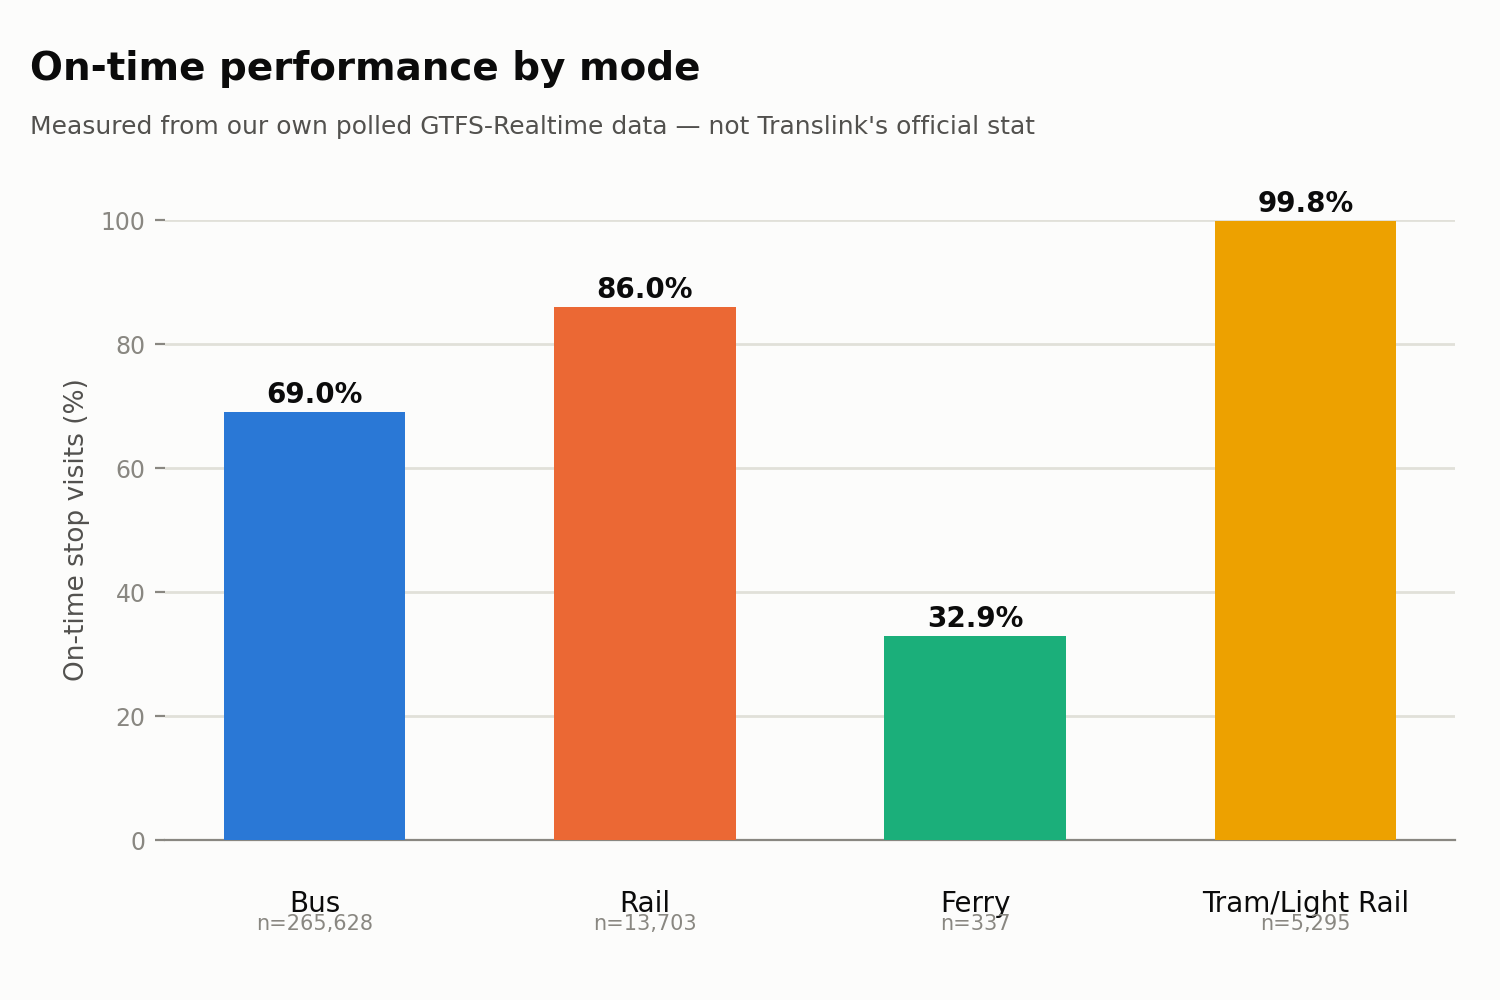
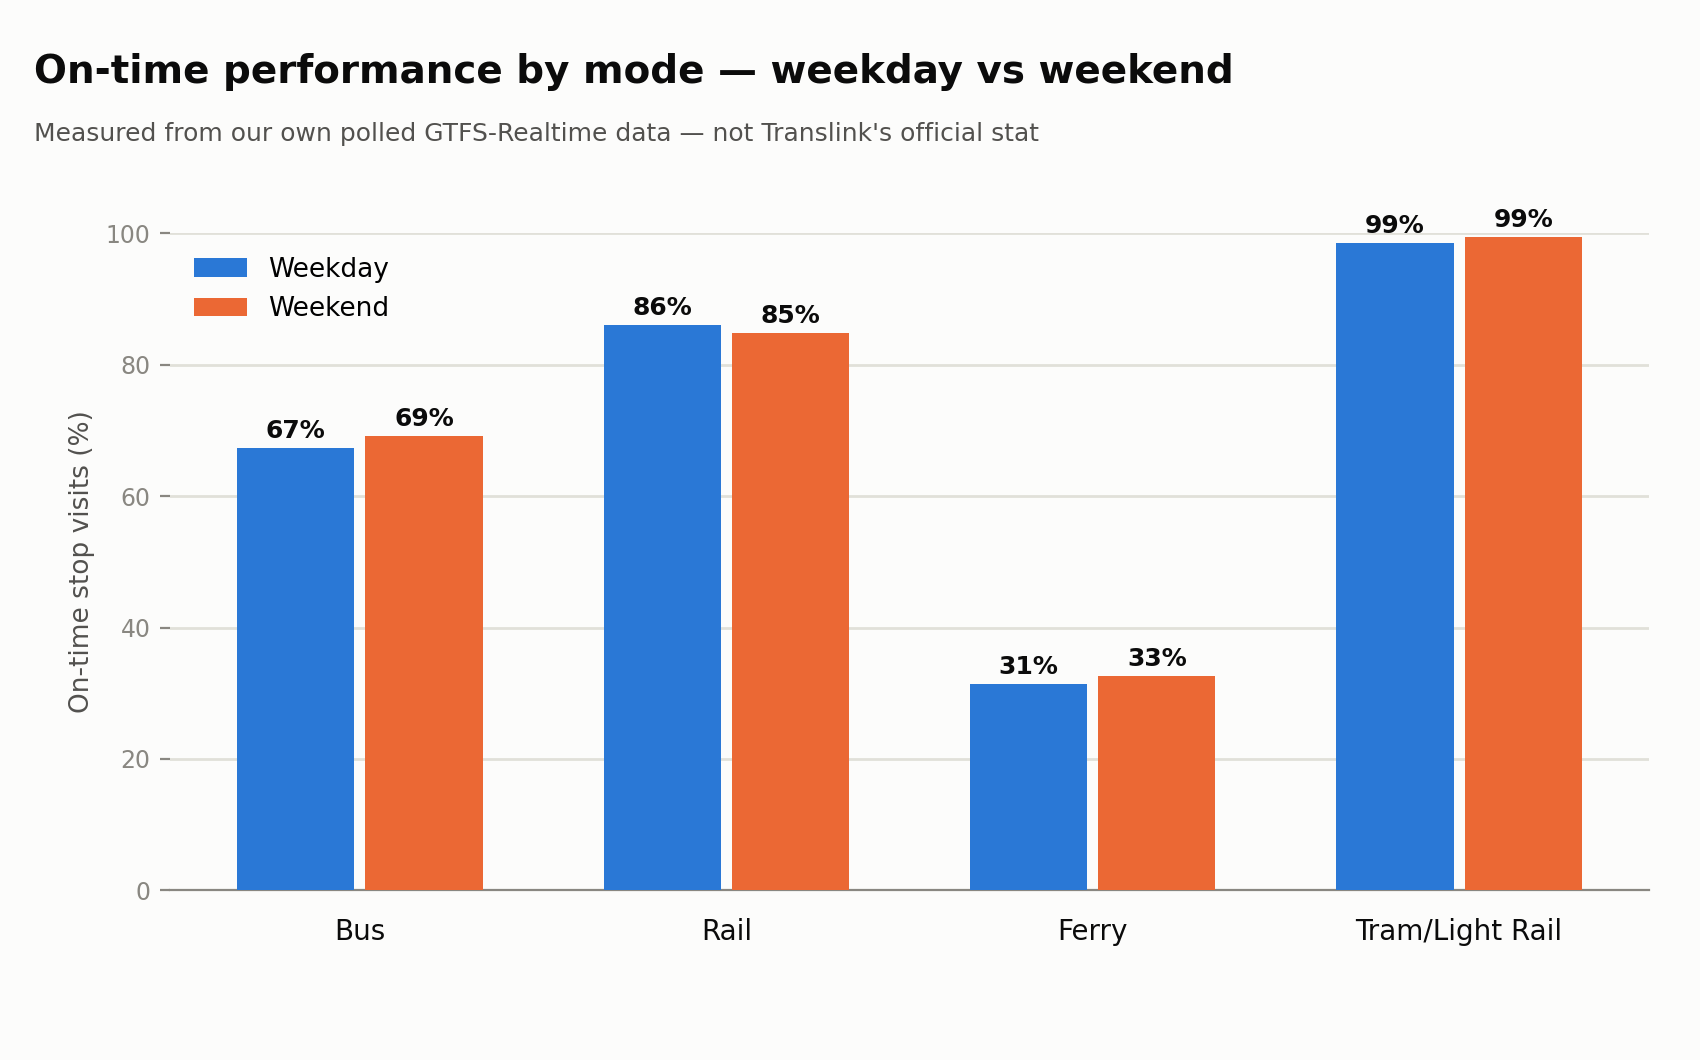
Split Week 2 on-time performance by weekday vs weekend
The collection window now spans real weekday service (Mon/Tue,
including this morning's AM peak) alongside the original weekend
data — enough to fix a gap flagged earlier: the citywide numbers
were a blended figure that quietly hid the fact the first version
was built entirely from weekend data.

- Day type is derived from each stop visit's scheduled service date
  (local Brisbane time), not from when we happened to poll it.
- New "Weekday vs weekend" section: 68.6% weekday vs 70.5% weekend
  on-time, but with opposite failure modes — weekday skews early
  (19.4% vs 13.2%), weekend skews late (16.3% vs 12.0%).
- Chart replaced with a grouped weekday/weekend bar per mode.
- Route-level rankings and bunching stay blended (splitting further
  would thin most routes below the reliability threshold) — noted
  explicitly in the caveats.
- Now built from ~65h / 586K stop visits, up from the original ~26h
  weekend-only window.

diff --git a/notebooks/realtime_summary.py b/notebooks/realtime_summary.py
@@ -27,6 +27,7 @@ DBT_DIR = REPO_ROOT / "dbt"
 sys.path.insert(0, str(REPO_ROOT))
 
 import matplotlib.pyplot as plt
+import numpy as np
 import pandas as pd
 from sqlalchemy import create_engine
 
@@ -44,6 +45,8 @@ MIN_TRIPS = 5  # minimum distinct trips, so one bad/good run can't dominate a ro
 MODE_ORDER = ["Bus", "Rail", "Ferry", "Tram/Light Rail"]
 # dataviz skill's validated categorical palette, fixed order (slots 1-4).
 MODE_COLORS = {"Bus": "#2a78d6", "Rail": "#eb6834", "Ferry": "#1baf7a", "Tram/Light Rail": "#eda100"}
+# Same palette, slots 1-2, reused for the weekday/weekend split.
+DAYTYPE_COLORS = {"Weekday": "#2a78d6", "Weekend": "#eb6834"}
 
 INK_PRIMARY = "#0b0b0b"
 INK_SECONDARY = "#52514e"
@@ -66,13 +69,25 @@ def refresh_dbt_marts() -> None:
         raise RuntimeError("dbt run failed — see output above")
 
 
+STOP_DELAY_SQL = """
+    SELECT
+        sd.arrival_delay_sec,
+        r.mode,
+        -- Saturday/Sunday by the SCHEDULED service date (local time), not by
+        -- when we happened to poll it — a stop visit polled late at night
+        -- can belong to the next day's early service.
+        (extract(dow from sd.scheduled_arrival at time zone 'Australia/Brisbane') in (0, 6)) AS is_weekend
+    FROM marts.mart_stop_delay sd
+    JOIN staging.stg_routes r ON r.route_id = sd.route_id
+    WHERE sd.arrival_delay_sec IS NOT NULL AND sd.scheduled_arrival IS NOT NULL
+"""
+
+
 def fetch_marts(engine) -> dict[str, pd.DataFrame]:
     return {
         "otp": pd.read_sql("SELECT * FROM marts.mart_on_time_performance", engine),
         "bunching": pd.read_sql("SELECT * FROM marts.mart_bunching_by_route", engine),
-        "stop_delay": pd.read_sql(
-            "SELECT arrival_delay_sec FROM marts.mart_stop_delay WHERE arrival_delay_sec IS NOT NULL", engine
-        ),
+        "stop_delay": pd.read_sql(STOP_DELAY_SQL, engine),
     }
 
 
@@ -98,52 +113,59 @@ def citywide_otp(stop_delay: pd.DataFrame) -> dict[str, float]:
     }
 
 
-def plot_otp_by_mode(otp: pd.DataFrame) -> None:
-    CHART_PATH.parent.mkdir(parents=True, exist_ok=True)
-    by_mode = (
-        otp.groupby("mode")
-        .apply(
-            lambda g: pd.Series(
-                {
-                    "on_time_pct": (g["on_time_pct"] * g["n_stop_visits"]).sum() / g["n_stop_visits"].sum(),
-                    "n_stop_visits": g["n_stop_visits"].sum(),
-                }
-            ),
-            include_groups=False,
-        )
-        .reindex([m for m in MODE_ORDER if m in otp["mode"].unique()])
-        .dropna()
-    )
+def otp_by_daytype(stop_delay: pd.DataFrame) -> dict[str, dict[str, float]]:
+    return {
+        "weekday": citywide_otp(stop_delay[~stop_delay["is_weekend"]]),
+        "weekend": citywide_otp(stop_delay[stop_delay["is_weekend"]]),
+    }
 
-    fig, ax = plt.subplots(figsize=(7.5, 5), dpi=200)
+
+def plot_otp_by_mode_daytype(stop_delay: pd.DataFrame) -> None:
+    CHART_PATH.parent.mkdir(parents=True, exist_ok=True)
+    df = stop_delay.copy()
+    df["day_type"] = df["is_weekend"].map({False: "Weekday", True: "Weekend"})
+
+    def summarize(g):
+        d = g["arrival_delay_sec"]
+        return pd.Series({"on_time_pct": 100 * ((d >= -60) & (d <= 300)).sum() / len(d)})
+
+    pivot = (
+        df.groupby(["mode", "day_type"])
+        .apply(summarize, include_groups=False)
+        .reset_index()
+        .pivot(index="mode", columns="day_type", values="on_time_pct")
+    )
+    modes = [m for m in MODE_ORDER if m in pivot.index]
+    pivot = pivot.reindex(modes)
+    day_types = [d for d in ["Weekday", "Weekend"] if d in pivot.columns]
+
+    x = np.arange(len(modes))
+    bar_w = 0.32
+    offsets = (np.arange(len(day_types)) - (len(day_types) - 1) / 2) * (bar_w + 0.03)
+
+    fig, ax = plt.subplots(figsize=(8.5, 5.3), dpi=200)
     fig.patch.set_facecolor("#fcfcfb")
     ax.set_facecolor("#fcfcfb")
-    fig.subplots_adjust(top=0.78, bottom=0.16, left=0.11, right=0.97)
+    fig.subplots_adjust(top=0.78, bottom=0.16, left=0.1, right=0.97)
 
-    colors = [MODE_COLORS[m] for m in by_mode.index]
-    bars = ax.bar(by_mode.index, by_mode["on_time_pct"], color=colors, width=0.55, zorder=3)
-    xaxis_transform = ax.get_xaxis_transform()  # x in data units, y in axes fraction
-    for rect, (_, row) in zip(bars, by_mode.iterrows()):
-        ax.text(
-            rect.get_x() + rect.get_width() / 2,
-            row["on_time_pct"] + 1.5,
-            f"{row['on_time_pct']:.1f}%",
-            ha="center",
-            fontsize=10,
-            fontweight="bold",
-            color=INK_PRIMARY,
-        )
-        ax.text(
-            rect.get_x() + rect.get_width() / 2,
-            -0.12,
-            f"n={int(row['n_stop_visits']):,}",
-            transform=xaxis_transform,
-            ha="center",
-            va="top",
-            fontsize=7.5,
-            color=INK_MUTED,
-        )
+    for day_type, off in zip(day_types, offsets):
+        vals = pivot[day_type]
+        bars = ax.bar(x + off, vals, width=bar_w, color=DAYTYPE_COLORS[day_type], label=day_type, zorder=3)
+        for rect, v in zip(bars, vals):
+            if pd.isna(v):
+                continue
+            ax.text(
+                rect.get_x() + rect.get_width() / 2,
+                v + 1.5,
+                f"{v:.0f}%",
+                ha="center",
+                fontsize=9,
+                fontweight="bold",
+                color=INK_PRIMARY,
+            )
 
+    ax.set_xticks(x)
+    ax.set_xticklabels(modes, fontsize=10, color=INK_PRIMARY)
     ax.set_ylim(0, 100)
     ax.set_ylabel("On-time stop visits (%)", fontsize=9.5, color=INK_SECONDARY)
     ax.grid(axis="y", color=GRIDLINE, linewidth=1, zorder=0)
@@ -152,10 +174,17 @@ def plot_otp_by_mode(otp: pd.DataFrame) -> None:
         ax.spines[spine].set_visible(False)
     ax.spines["bottom"].set_color(INK_MUTED)
     ax.tick_params(axis="y", colors=INK_MUTED, labelsize=8.5)
-    ax.tick_params(axis="x", length=0, labelsize=10, colors=INK_PRIMARY, pad=18)
+    ax.tick_params(axis="x", length=0, pad=10)
+    ax.legend(frameon=False, loc="upper left", fontsize=9.5)
 
     fig.text(
-        0.02, 0.95, "On-time performance by mode", fontsize=14, fontweight="bold", color=INK_PRIMARY, va="top"
+        0.02,
+        0.95,
+        "On-time performance by mode — weekday vs weekend",
+        fontsize=14,
+        fontweight="bold",
+        color=INK_PRIMARY,
+        va="top",
     )
     fig.text(
         0.02,
@@ -177,7 +206,11 @@ def _format_span(td) -> str:
 
 
 def write_report(
-    otp: pd.DataFrame, bunching: pd.DataFrame, city: dict[str, float], window: tuple[datetime, datetime, int]
+    otp: pd.DataFrame,
+    bunching: pd.DataFrame,
+    city: dict[str, float],
+    by_daytype: dict[str, dict[str, float]],
+    window: tuple[datetime, datetime, int],
 ) -> None:
     start, end, n_polls = window
     span_td = (end - start) if (start and end) else None
@@ -212,7 +245,27 @@ def write_report(
         f"- **{city['early_pct']}%** more than 1 minute early",
         f"- {city['n']:,} stop visits measured",
         "",
-        "![On-time performance by mode](images/week2_on_time_by_mode.png)",
+        "### Weekday vs weekend",
+        "",
+        (
+            "A blended figure across the whole collection window hides a real difference — "
+            "**weekday and weekend service run at different reliability**, and earlier versions of "
+            "this report were built from weekend-only data without saying so. Split here by the "
+            "scheduled service's actual calendar day, not by when we happened to be polling:"
+        ),
+        "",
+        "| | On time | Late | Early | Stop visits |",
+        "|---|---|---|---|---|",
+        (
+            f"| Weekday | {by_daytype['weekday']['on_time_pct']}% | {by_daytype['weekday']['late_pct']}% | "
+            f"{by_daytype['weekday']['early_pct']}% | {by_daytype['weekday']['n']:,} |"
+        ),
+        (
+            f"| Weekend | {by_daytype['weekend']['on_time_pct']}% | {by_daytype['weekend']['late_pct']}% | "
+            f"{by_daytype['weekend']['early_pct']}% | {by_daytype['weekend']['n']:,} |"
+        ),
+        "",
+        "![On-time performance by mode, weekday vs weekend](images/week2_on_time_by_mode.png)",
         "",
         (
             f"## Worst on-time performance (routes with ≥{MIN_SAMPLE_SIZE} stop visits "
@@ -287,6 +340,12 @@ def write_report(
             "(e.g. all-peak, or all-overnight) — check the collection window above before treating "
             "a route's number as representative of its typical performance."
         ),
+        (
+            "- The route-level Worst/Best tables and the bunching table below are **blended across "
+            "weekday and weekend** (splitting them further would thin out the per-route trip counts "
+            "below the reliability threshold for most routes). Only the citywide/mode figures above "
+            "are split by day type."
+        ),
         "",
     ]
 
@@ -305,10 +364,13 @@ def main() -> None:
     city = citywide_otp(marts["stop_delay"])
     print(f"Citywide on-time: {city}")
 
-    plot_otp_by_mode(marts["otp"])
+    by_daytype = otp_by_daytype(marts["stop_delay"])
+    print(f"By day type: {by_daytype}")
+
+    plot_otp_by_mode_daytype(marts["stop_delay"])
     print(f"Saved chart to {CHART_PATH}")
 
-    write_report(marts["otp"], marts["bunching"], city, window)
+    write_report(marts["otp"], marts["bunching"], city, by_daytype, window)
     print(f"Saved report to {REPORT_PATH}")
 
 

diff --git a/docs/week2_findings.md b/docs/week2_findings.md
@@ -1,77 +1,86 @@
 # Week 2 findings — on-time performance & bunching
 
-Collection window: **2026-09-19 05:07 – 2026-09-20 07:19 UTC** (26h 11m, 578 polls) — our own measurement from polled GTFS-Realtime data, not Translink's official on-time stat.
+Collection window: **2026-09-19 05:07 – 2026-09-21 21:57 UTC** (64h 49m, 1,292 polls) — our own measurement from polled GTFS-Realtime data, not Translink's official on-time stat.
 
 "On time" here means arriving no more than 1 minute early and no more than 5 minutes late — a common industry convention. Early running counts against a route because it strands passengers who timed their arrival to the published schedule, not just late running.
 
 ## Citywide
 
-- **70.4%** of stop visits on time
-- **16.6%** more than 5 minutes late
-- **13.0%** more than 1 minute early
-- 284,963 stop visits measured
+- **69.6%** of stop visits on time
+- **14.4%** more than 5 minutes late
+- **15.9%** more than 1 minute early
+- 585,592 stop visits measured
 
-![On-time performance by mode](images/week2_on_time_by_mode.png)
+### Weekday vs weekend
+
+A blended figure across the whole collection window hides a real difference — **weekday and weekend service run at different reliability**, and earlier versions of this report were built from weekend-only data without saying so. Split here by the scheduled service's actual calendar day, not by when we happened to be polling:
+
+| | On time | Late | Early | Stop visits |
+|---|---|---|---|---|
+| Weekday | 68.6% | 12.0% | 19.4% | 257,847 |
+| Weekend | 70.5% | 16.3% | 13.2% | 327,745 |
+
+![On-time performance by mode, weekday vs weekend](images/week2_on_time_by_mode.png)
 
 ## Worst on-time performance (routes with ≥30 stop visits across ≥5 distinct trips)
 
 | Route | Mode | On time | Late | Early | Stop visits | Trips |
 |---|---|---|---|---|---|---|
-| F50 | Ferry | 15.7% | 1.0% | 83.3% | 102 | 61 |
-| 767 | Bus | 23.9% | 75.1% | 1.0% | 393 | 14 |
+| F50 | Ferry | 16.3% | 0.5% | 83.2% | 202 | 116 |
+| 50 | Bus | 24.6% | 6.6% | 68.9% | 122 | 15 |
 | 116 | Bus | 29.2% | 68.1% | 2.7% | 408 | 7 |
-| 768 | Bus | 29.7% | 66.6% | 3.6% | 878 | 28 |
-| 182 | Bus | 34.6% | 34.9% | 30.4% | 1,262 | 31 |
+| 40 | Bus | 30.7% | 19.9% | 49.4% | 166 | 18 |
+| 70 | Bus | 32.1% | 0.0% | 67.9% | 81 | 6 |
+| 182 | Bus | 33.1% | 34.3% | 32.6% | 1,390 | 33 |
+| 471 | Bus | 33.3% | 18.6% | 48.0% | 204 | 10 |
+| 581 | Bus | 35.2% | 34.4% | 30.3% | 122 | 14 |
 | N199 | Bus | 35.5% | 0.0% | 64.5% | 186 | 7 |
-| 758 | Bus | 36.6% | 60.6% | 2.8% | 142 | 10 |
-| 629 | Bus | 37.5% | 59.5% | 3.0% | 536 | 18 |
+| 414 | Bus | 36.2% | 7.2% | 56.5% | 138 | 7 |
+| CLBR | Rail | 36.8% | 0.0% | 63.2% | 144 | 6 |
+| 275 | Bus | 37.3% | 34.7% | 28.0% | 300 | 8 |
 | N226 | Bus | 37.7% | 55.5% | 6.8% | 382 | 5 |
-| SMBI | Ferry | 40.4% | 1.3% | 58.3% | 235 | 44 |
-| 19 | Bus | 45.2% | 15.3% | 39.5% | 803 | 70 |
-| 197 | Bus | 46.1% | 13.6% | 40.3% | 154 | 9 |
-| 212 | Bus | 48.6% | 46.1% | 5.3% | 697 | 19 |
-| 175 | Bus | 48.8% | 48.8% | 2.4% | 2,768 | 76 |
-| 322 | Bus | 48.9% | 40.2% | 10.8% | 1,042 | 19 |
+| 142 | Bus | 38.3% | 19.1% | 42.6% | 47 | 10 |
+| SMBI | Ferry | 39.5% | 1.1% | 59.3% | 435 | 81 |
 
 ## Best on-time performance (routes with ≥30 stop visits across ≥5 distinct trips)
 
 | Route | Mode | On time | Late | Early | Stop visits | Trips |
 |---|---|---|---|---|---|---|
-| BRBR | Rail | 100.0% | 0.0% | 0.0% | 30 | 5 |
-| BRSH | Rail | 100.0% | 0.0% | 0.0% | 98 | 12 |
 | SHBR | Rail | 100.0% | 0.0% | 0.0% | 105 | 13 |
-| L1 | Tram/Light Rail | 99.8% | 0.1% | 0.0% | 5,295 | 218 |
-| 240 | Bus | 96.6% | 0.0% | 3.4% | 176 | 6 |
-| 763 | Bus | 96.5% | 1.7% | 1.7% | 345 | 30 |
-| SHBR | Rail | 96.2% | 3.0% | 0.8% | 237 | 23 |
-| 689 | Bus | 95.6% | 0.0% | 4.4% | 275 | 13 |
+| BRSH | Rail | 100.0% | 0.0% | 0.0% | 98 | 12 |
+| L1 | Tram/Light Rail | 99.1% | 0.8% | 0.2% | 10,912 | 435 |
+| SHBR | Rail | 97.5% | 1.9% | 0.5% | 364 | 35 |
+| RPBR | Rail | 97.2% | 0.0% | 2.8% | 287 | 13 |
+| 686 | Bus | 96.7% | 0.0% | 3.3% | 305 | 13 |
+| 689 | Bus | 95.0% | 0.3% | 4.7% | 319 | 15 |
 | BRFG | Rail | 94.9% | 0.0% | 5.1% | 236 | 15 |
-| 676 | Bus | 94.9% | 0.0% | 5.1% | 433 | 24 |
+| DBBR | Rail | 94.9% | 0.0% | 5.1% | 176 | 13 |
 | SPRP | Rail | 94.6% | 2.4% | 3.0% | 539 | 16 |
-| DBBR | Rail | 94.1% | 0.0% | 5.9% | 152 | 11 |
-| 654 | Bus | 94.1% | 0.0% | 5.9% | 322 | 11 |
+| 266 | Bus | 94.6% | 1.8% | 3.6% | 167 | 5 |
+| CASP | Rail | 94.4% | 0.0% | 5.6% | 215 | 8 |
+| SPRP | Rail | 94.2% | 1.0% | 4.8% | 776 | 23 |
+| SHBR | Rail | 93.7% | 0.0% | 6.3% | 441 | 35 |
 | CAIP | Rail | 93.7% | 0.0% | 6.3% | 335 | 11 |
-| 578 | Bus | 93.3% | 5.8% | 1.0% | 208 | 7 |
 
 ## Bunching (two vehicles on the same route within 400m, same poll)
 
 | Route | Bunching snapshots | Distinct polls bunched | First seen | Last seen |
 |---|---|---|---|---|
-| SHBR | 3,929 | 397 | 22:37 | 07:19 |
-| 700 | 1,911 | 525 | 05:07 | 07:18 |
-| BDBR | 1,499 | 205 | 02:29 | 07:19 |
-| 704 | 951 | 398 | 05:07 | 07:19 |
-| 701 | 880 | 421 | 05:07 | 07:19 |
-| M1 | 806 | 467 | 05:07 | 07:18 |
-| 705 | 774 | 401 | 05:09 | 07:19 |
-| 199 | 764 | 389 | 05:07 | 07:19 |
-| 555 | 761 | 336 | 05:09 | 07:19 |
-| 196 | 718 | 421 | 05:08 | 07:18 |
-| 765 | 704 | 342 | 05:07 | 07:19 |
-| 60 | 660 | 400 | 05:09 | 07:19 |
-| 61 | 653 | 385 | 05:07 | 07:19 |
-| TX7 | 560 | 395 | 05:07 | 07:17 |
-| 340 | 558 | 372 | 05:07 | 07:19 |
+| SHBR | 6,198 | 620 | 22:37 | 13:21 |
+| BDBR | 3,819 | 428 | 02:29 | 13:21 |
+| 700 | 2,573 | 931 | 05:07 | 21:56 |
+| M1 | 2,516 | 986 | 05:07 | 21:56 |
+| 705 | 1,916 | 838 | 05:09 | 21:56 |
+| M2 | 1,624 | 730 | 05:07 | 21:56 |
+| 199 | 1,479 | 401 | 20:01 | 21:56 |
+| 60 | 1,385 | 361 | 20:01 | 21:56 |
+| 701 | 1,171 | 640 | 05:07 | 21:56 |
+| DBBR | 1,156 | 424 | 02:33 | 13:21 |
+| 704 | 1,154 | 574 | 05:07 | 21:56 |
+| 555 | 1,072 | 519 | 05:09 | 21:55 |
+| 765 | 972 | 546 | 05:07 | 21:56 |
+| 196 | 934 | 567 | 05:08 | 13:10 |
+| 199 | 927 | 521 | 05:07 | 13:17 |
 
 ## Method & caveats
 
@@ -79,3 +88,4 @@ Collection window: **2026-09-19 05:07 – 2026-09-20 07:19 UTC** (26h 11m, 578 p
 - **Bunching is a same-poll, 400m proximity heuristic**, not a same-route-position check — two vehicles happening to be near each other at a shared terminus or layover point can register as "bunched" without actually being back-to-back on route. Treat the ranking as directional, not exact.
 - Route rankings only include routes with ≥30 stop visits **across ≥5 distinct trips**. Stop visits alone aren't enough: a low-frequency route can rack up dozens of stop visits from a single catastrophically delayed trip cascading down its stop sequence, making one bad run look like a systemically unreliable route. Requiring several independent trips guards against that.
 - A short collection window skews toward whatever was running when it was collected (e.g. all-peak, or all-overnight) — check the collection window above before treating a route's number as representative of its typical performance.
+- The route-level Worst/Best tables and the bunching table below are **blended across weekday and weekend** (splitting them further would thin out the per-route trip counts below the reliability threshold for most routes). Only the citywide/mode figures above are split by day type.

diff --git a/README.md b/README.md
@@ -125,9 +125,12 @@ Full breakdown in [`docs/week2_findings.md`](docs/week2_findings.md), generated 
 [`notebooks/realtime_summary.py`](notebooks/realtime_summary.py) from
 [`ingestion/gtfs_realtime_poller.py`](ingestion/gtfs_realtime_poller.py)'s own polled
 GTFS-Realtime data — not Translink's official on-time stat — via dbt marts in
-[`dbt/`](dbt/). From a ~26-hour collection window (285K stop visits measured): **70.4%
-on-time citywide**, with rail (86%) and the Gold Coast light rail (99.8%) running far more
-reliably than bus (69%) or ferry (33%). Route rankings require ≥5 distinct trips before
+[`dbt/`](dbt/). From a ~65-hour collection window spanning both weekend and weekday service
+(586K stop visits measured): **69.6% on-time citywide**, with rail (86%) and the Gold Coast
+light rail (99%) running far more reliably than bus (68%) or ferry (32%). Split by day type,
+**weekday runs slightly less punctually than weekend (68.6% vs. 70.5%)** but with the
+opposite failure mode — weekday skews toward early running (19.4% vs. 13.2%), weekend
+toward late running (16.3% vs. 12.0%). Route rankings require ≥5 distinct trips before
 counting, so one catastrophically delayed run can't make a low-frequency route look
 systemically unreliable. Raw and summarized data is exportable to CSV/XLSX via
 [`notebooks/export_week2_data.py`](notebooks/export_week2_data.py).
